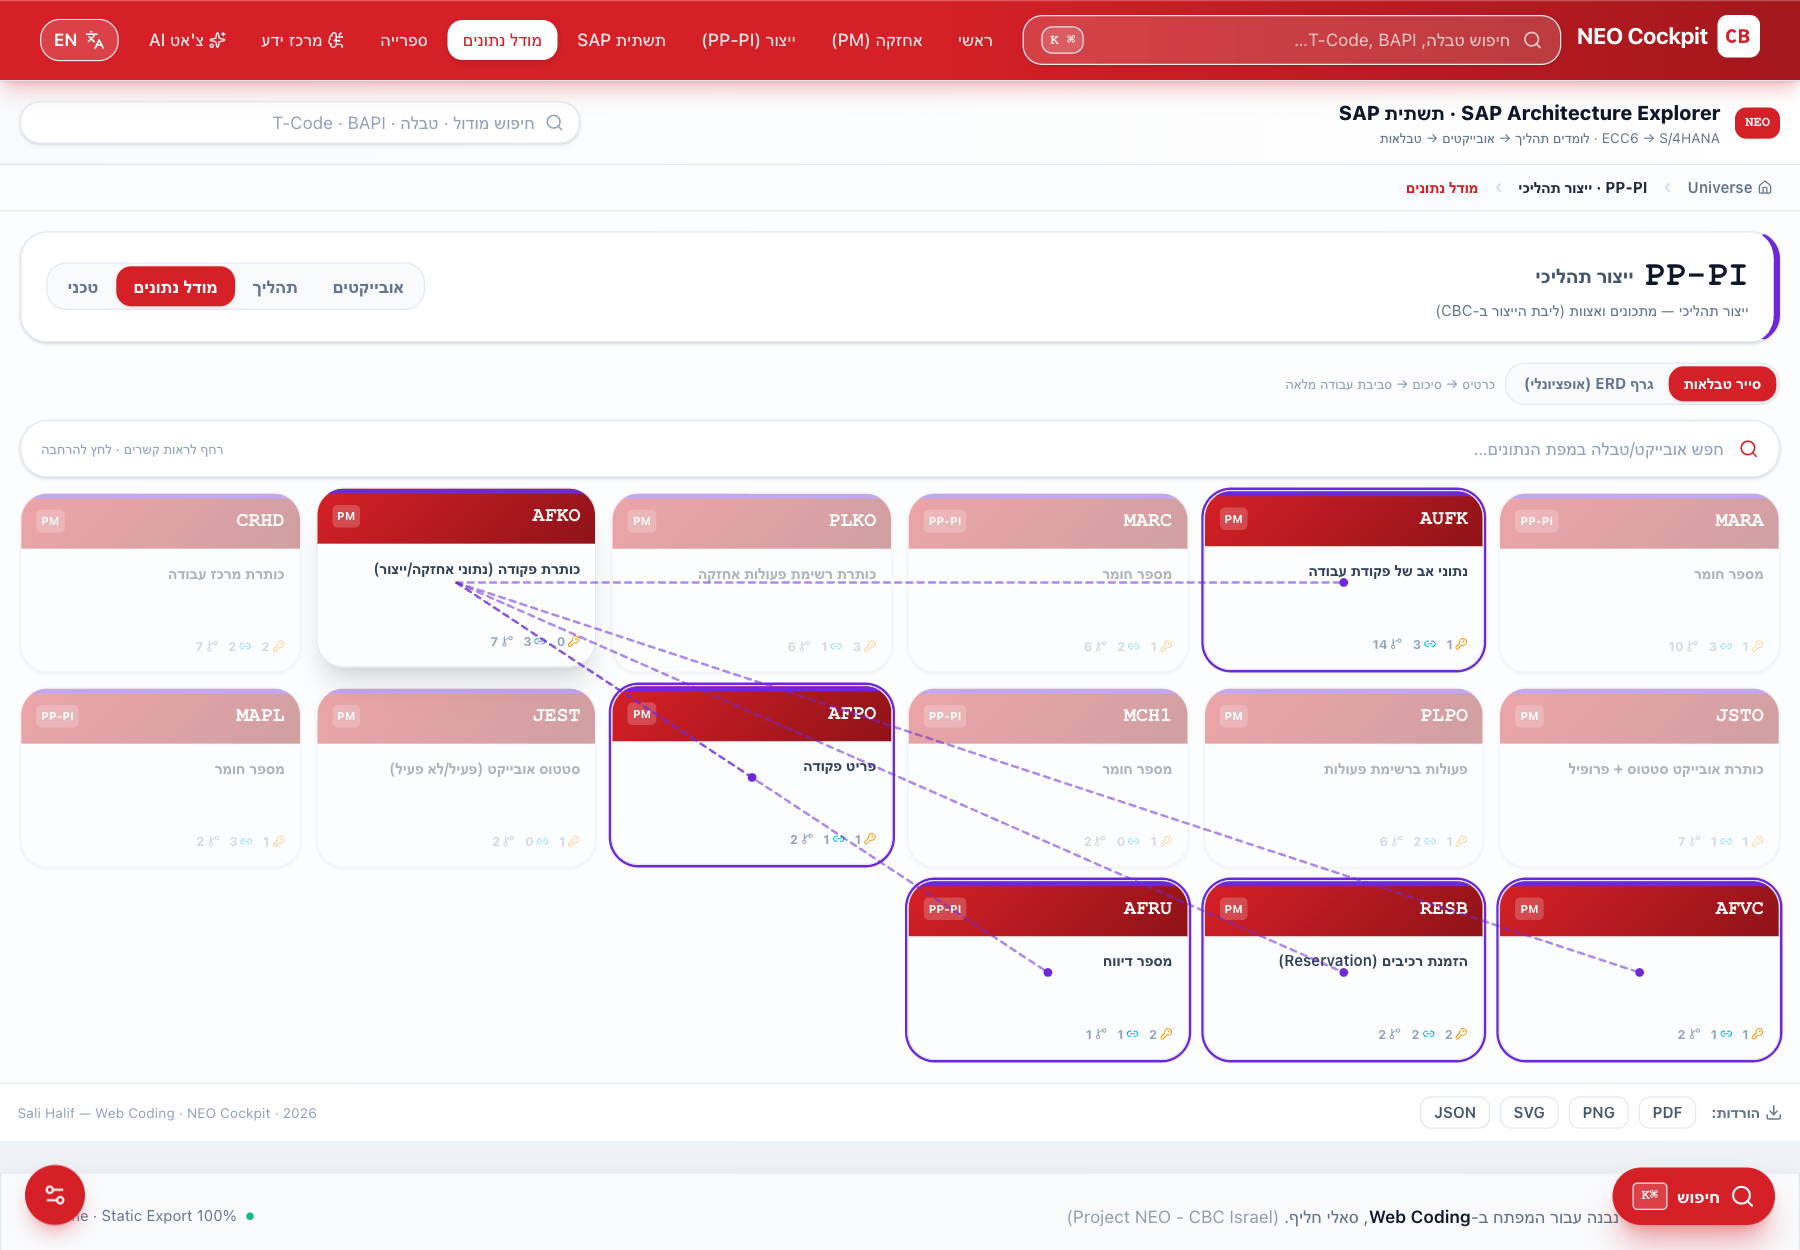
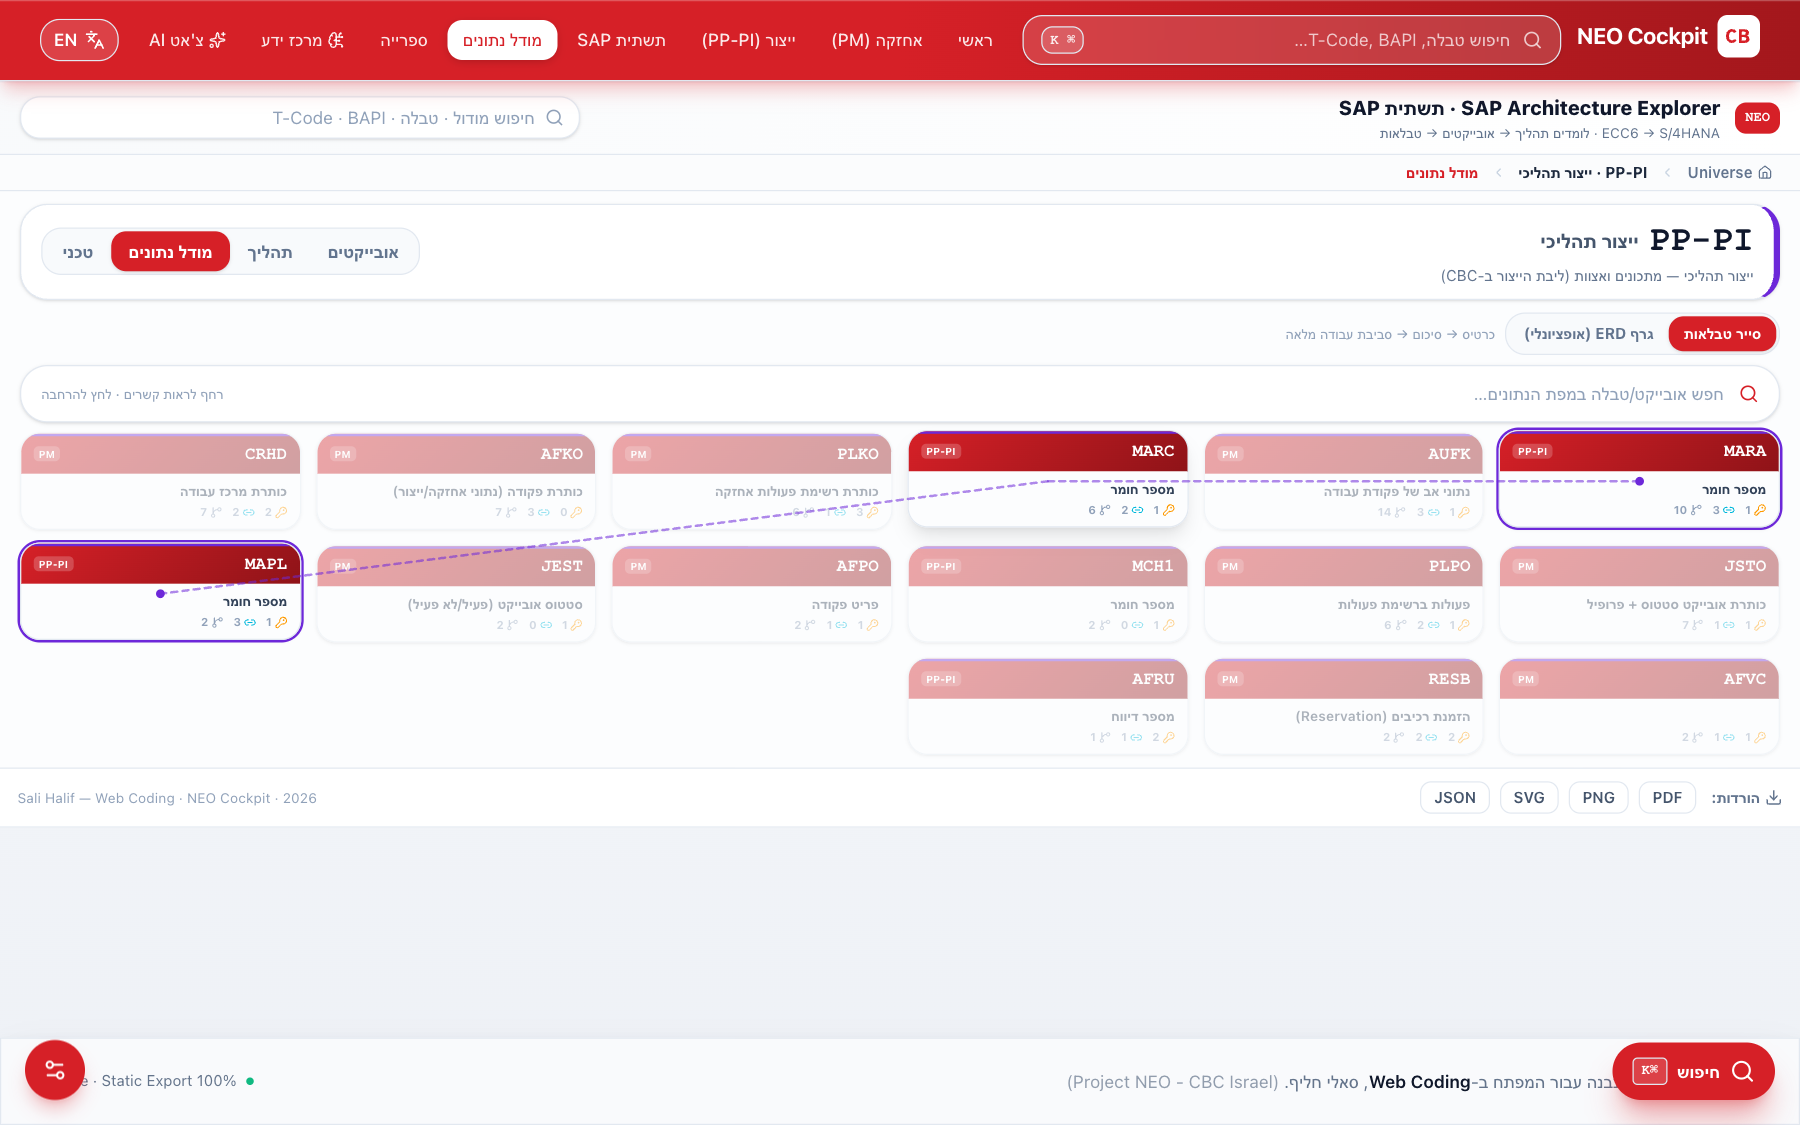
refine(data-model): compact Object Explorer — shorter cards + tighter chrome
- card height 144px -> 78px (-46%), Objects-page proportions, single-line title
- compress top chrome (top bar, breadcrumb, module header, gaps) → first card
  row visible immediately
- L2 = compact inline summary strip (PK/FK/fields/relationships + S/4 + CTA on
  one tight panel), not a full-page accordion
- relationship connector lines kept as core hover feature
Build clean, 0 console errors, 0 external.

diff --git a/app/sap-infrastructure/page.tsx b/app/sap-infrastructure/page.tsx
@@ -59,7 +59,7 @@ export default function Page() {
     <div dir="rtl" className="relative mx-[calc(50%-50vw)] -my-8 w-screen max-w-[100vw] overflow-hidden border-y border-slate-200 bg-white text-slate-900">
       <style>{ANIM}</style>
       {/* top bar */}
-      <div className="flex flex-wrap items-center justify-between gap-3 border-b border-slate-200 bg-gradient-to-l from-white to-slate-50 px-4 py-3">
+      <div className="flex flex-wrap items-center justify-between gap-3 border-b border-slate-200 bg-gradient-to-l from-white to-slate-50 px-4 py-2">
         <div className="flex items-center gap-3">
           <span className="rounded-md bg-[#d62027] px-2 py-1 font-mono text-[11px] font-bold text-white">NEO</span>
           <div><div className="text-base font-extrabold text-slate-900">SAP Architecture Explorer · תשתית SAP</div><div className="text-[11px] text-slate-500">ECC6 → S/4HANA · לומדים תהליך → אובייקטים → טבלאות</div></div>
@@ -80,13 +80,13 @@ export default function Page() {
         </div>
       </div>
       {/* breadcrumb */}
-      <div className="flex items-center gap-1 border-b border-slate-200 bg-slate-50/60 px-4 py-2 text-xs">
+      <div className="flex items-center gap-1 border-b border-slate-200 bg-slate-50/60 px-4 py-1 text-xs">
         <button onClick={() => setNav({ level: "universe" })} className="flex items-center gap-1 rounded px-1.5 py-0.5 font-semibold text-slate-500 hover:bg-slate-100"><Home className="size-3" /> Universe</button>
         {nav.module && <><ChevronLeft className="size-3 text-slate-300" /><span className="rounded px-1.5 py-0.5 font-bold text-slate-800">{nav.module} · {MOD_NAME_HE[nav.module]}</span></>}
         {nav.module && nav.tab && <><ChevronLeft className="size-3 text-slate-300" /><span className="rounded px-1.5 py-0.5 font-semibold text-[#d62027]">{(TABS.find((x) => x[0] === nav.tab) || ["", nav.tab])[1]}</span></>}
       </div>
 
-      <div className="bg-slate-50/40 p-4">
+      <div className="bg-slate-50/40 px-4 py-2.5">
         {nav.level === "universe" && <Universe data={data} color={color} onModule={openModule} />}
         {nav.level === "module" && nav.module && <Workspace data={data} color={color} code={nav.module} tab={nav.tab || "erd"} focus={nav.focus} byName={byName}
           setTab={(t) => setNav({ level: "module", module: nav.module, tab: t })} openErd={(focus) => setNav({ level: "module", module: nav.module, tab: "erd", focus })}
@@ -163,8 +163,8 @@ function Workspace({ data, color, code, tab, focus, byName, setTab, openErd, onT
   const [erdMode, setErdMode] = useState<"cards" | "graph">("cards");
   useEffect(() => { setErdMode("cards"); }, [code]);
   return (
-    <div className="space-y-4" style={{ animation: "fadeUp .35s ease both" }}>
-      <div className="flex flex-wrap items-center justify-between gap-3 rounded-2xl border border-slate-200 bg-white px-5 py-4 shadow-sm" style={{ borderInlineStartColor: c, borderInlineStartWidth: 5 }}>
+    <div className="space-y-2.5" style={{ animation: "fadeUp .35s ease both" }}>
+      <div className="flex flex-wrap items-center justify-between gap-3 rounded-2xl border border-slate-200 bg-white px-4 py-2.5 shadow-sm" style={{ borderInlineStartColor: c, borderInlineStartWidth: 5 }}>
         <div><div className="flex items-center gap-2"><span className="font-mono text-2xl font-extrabold text-slate-900">{code}</span><span className="font-semibold text-slate-600">{MOD_NAME_HE[code]}</span></div><p className="mt-0.5 max-w-3xl text-xs text-slate-500">{purpose}</p></div>
         <div className="flex rounded-xl border border-slate-200 bg-slate-50 p-0.5">
           {TABS.map(([id, label]) => <button key={id} onClick={() => setTab(id)} className={`rounded-lg px-3.5 py-1.5 text-sm font-bold transition ${tab === id ? "bg-[#d62027] text-white shadow-sm" : "text-slate-500 hover:text-slate-900"}`}>{label}</button>)}
@@ -173,7 +173,7 @@ function Workspace({ data, color, code, tab, focus, byName, setTab, openErd, onT
       {tab === "objects" && <ObjectsView data={data} color={color} code={code} byName={byName} onObjectErd={(tables) => openErd(tables)} onTable={onTable} />}
       {tab === "process" && <ProcessFlow color={color} code={code} />}
       {tab === "erd" && (
-        <div className="space-y-3">
+        <div className="space-y-2">
           <div className="flex items-center gap-2">
             <div className="inline-flex rounded-xl border border-slate-200 bg-slate-50 p-0.5">
               <button onClick={() => setErdMode("cards")} className={`rounded-lg px-3 py-1.5 text-xs font-bold transition ${erdMode === "cards" ? "bg-[#d62027] text-white shadow-sm" : "text-slate-500 hover:text-slate-900"}`}>סייר טבלאות</button>
@@ -302,7 +302,7 @@ function DataModelExplorer({ data, color, code, byName, onTable }: { data: Data;
   const related = hover && !open ? relatedOf(hover) : null;
 
   return (
-    <div className="space-y-3">
+    <div className="space-y-2">
       <div className="flex items-center gap-3 rounded-2xl border border-slate-200 bg-white px-4 py-2.5 shadow-sm focus-within:border-[#d62027]/40">
         <Search className="size-4 shrink-0 text-[#d62027]" />
         <input value={q} onChange={(e) => { setQ(e.target.value); setOpen(null); }} placeholder="חפש אובייקט/טבלה במפת הנתונים…" className="h-6 w-full bg-transparent text-sm outline-none placeholder:text-slate-400" />
@@ -332,45 +332,46 @@ function DataModelExplorer({ data, color, code, byName, onTable }: { data: Data;
               <div key={t.name} ref={(el) => { cardRef.current[t.name] = el; }}
                 onMouseEnter={() => !open && setHover(t.name)} onMouseLeave={() => setHover((h) => (h === t.name ? null : h))}
                 className={`relative z-10 transition-all duration-200 ${isOpen ? "col-span-2 sm:col-span-3 lg:col-span-4 xl:col-span-6" : ""} ${dim ? "opacity-40" : "opacity-100"}`}>
-                {/* L1 — square red card */}
+                {/* L1 — compact red card */}
                 <button onClick={() => { setOpen(isOpen ? null : t.name); setHover(null); }}
-                  className={`flex w-full flex-col overflow-hidden rounded-2xl border text-start shadow-sm transition-all ${isOpen ? "border-transparent ring-2" : isRel ? "border-transparent ring-2 -translate-y-0.5" : "border-slate-200 hover:-translate-y-1 hover:shadow-xl"} ${isOpen ? "" : "h-36"}`}
+                  className={`flex w-full flex-col overflow-hidden rounded-xl border text-start shadow-sm transition-all ${isOpen ? "border-transparent ring-2" : isRel ? "border-transparent ring-2 -translate-y-0.5" : "border-slate-200 hover:-translate-y-0.5 hover:shadow-lg"} ${isOpen ? "" : "h-[78px]"}`}
                   style={(isOpen || isRel) ? ({ ["--tw-ring-color"]: c } as React.CSSProperties) : undefined}>
-                  <div className="relative px-3 py-2.5 text-white" style={{ background: "linear-gradient(135deg,#d62027,#8f1318)" }}>
-                    <span className="absolute inset-x-0 top-0 h-1" style={{ background: c }} />
-                    <div className="flex items-center justify-between gap-1">
-                      <span className="font-mono text-base font-extrabold" dir="ltr"><Highlight text={t.name} query={q} /></span>
-                      <span className="rounded bg-white/20 px-1 py-0.5 text-[9px] font-bold">{t.mod}</span>
-                    </div>
+                  <div className="relative flex items-center justify-between gap-1 px-2.5 py-1.5 text-white" style={{ background: "linear-gradient(135deg,#d62027,#8f1318)" }}>
+                    <span className="absolute inset-x-0 top-0 h-0.5" style={{ background: c }} />
+                    <span className="font-mono text-sm font-extrabold" dir="ltr"><Highlight text={t.name} query={q} /></span>
+                    <span className="rounded bg-white/20 px-1 text-[8px] font-bold">{t.mod}</span>
                   </div>
-                  {!isOpen && (
-                    <div className="flex flex-1 flex-col justify-between p-3">
-                      <p className="line-clamp-2 text-xs font-semibold leading-snug text-slate-700"><Highlight text={t.he || t.en} query={q} /></p>
-                      <div className="flex items-center gap-2 text-[10px] font-bold text-slate-400">
+                  {!isOpen ? (
+                    <div className="flex flex-1 flex-col justify-between px-2.5 py-1.5">
+                      <p className="line-clamp-1 text-[11px] font-semibold text-slate-700"><Highlight text={t.he || t.en} query={q} /></p>
+                      <div className="flex items-center gap-2 text-[9px] font-bold text-slate-400">
                         <span className="flex items-center gap-0.5"><KeyRound className="size-2.5 text-amber-500" />{pk.length}</span>
                         <span className="flex items-center gap-0.5"><Link2 className="size-2.5 text-cyan-500" />{fk.length}</span>
                         <span className="flex items-center gap-0.5"><GitBranch className="size-2.5" />{rels.length}</span>
                       </div>
                     </div>
+                  ) : (
+                    <div className="px-2.5 py-1 text-[11px] font-semibold text-slate-600"><Highlight text={t.he || t.en} query={q} /></div>
                   )}
-                  {isOpen && <div className="px-3 pb-1 pt-2 text-sm font-semibold text-slate-700"><Highlight text={t.he || t.en} query={q} /></div>}
                 </button>
 
-                {/* L2 — inline expand under the card */}
+                {/* L2 — compact inline summary */}
                 {isOpen && (
-                  <div className="mt-2 space-y-3 rounded-2xl border border-slate-200 bg-white p-4 shadow-xl" style={{ animation: "fadeUp .3s ease both" }}>
-                    <div className="grid gap-3 sm:grid-cols-2 lg:grid-cols-4">
-                      <Field2 label="מפתח ראשי (PK)" tone="#d97706">{pk.length ? pk.map((f) => <Chip2 key={f[0]} q={q}>{f[0]}</Chip2>) : <Dash />}</Field2>
-                      <Field2 label="מפתח זר (FK)" tone="#0891b2">{fk.length ? fk.map((f) => <Chip2 key={f[0]} q={q}>{f[0]}</Chip2>) : <Dash />}</Field2>
-                      <Field2 label="שדות עיקריים" tone="#475569">{t.fields.slice(0, 8).map((f) => <Chip2 key={f[0]} q={q}>{f[0]}</Chip2>)}</Field2>
-                      <Field2 label="קשרים" tone={c}>{rels.length ? rels.slice(0, 8).map((r) => (
-                        <button key={r.role + r.table} onClick={() => byName[r.table] && onTable(r.table)} className="tech rounded-md border border-slate-200 bg-slate-50 px-2 py-0.5 text-[11px] font-bold text-slate-600 transition hover:text-[#d62027]" dir="ltr">{r.role === "parent" ? "↓" : "↑"} <Highlight text={r.table} query={q} /> <span className="text-slate-400">{r.card}</span></button>
+                  <div className="mt-1.5 space-y-2 rounded-xl border border-slate-200 bg-white p-2.5 shadow-lg" style={{ animation: "fadeUp .25s ease both" }}>
+                    <div className="grid gap-x-3 gap-y-1.5 sm:grid-cols-2 lg:grid-cols-4">
+                      <Field2 label="PK" tone="#d97706">{pk.length ? pk.map((f) => <Chip2 key={f[0]} q={q}>{f[0]}</Chip2>) : <Dash />}</Field2>
+                      <Field2 label="FK" tone="#0891b2">{fk.length ? fk.map((f) => <Chip2 key={f[0]} q={q}>{f[0]}</Chip2>) : <Dash />}</Field2>
+                      <Field2 label="שדות" tone="#475569">{t.fields.slice(0, 6).map((f) => <Chip2 key={f[0]} q={q}>{f[0]}</Chip2>)}</Field2>
+                      <Field2 label="קשרים" tone={c}>{rels.length ? rels.slice(0, 6).map((r) => (
+                        <button key={r.role + r.table} onClick={() => byName[r.table] && onTable(r.table)} className="tech rounded border border-slate-200 bg-slate-50 px-1.5 text-[10px] font-bold text-slate-600 transition hover:text-[#d62027]" dir="ltr">{r.role === "parent" ? "↓" : "↑"}<Highlight text={r.table} query={q} /></button>
                       )) : <Dash />}</Field2>
                     </div>
-                    {t.s4 && <p className="rounded-lg bg-amber-50 px-2.5 py-1.5 text-[12px] font-medium text-amber-900"><span className="font-bold">ECC → S/4: </span><Highlight text={t.s4} query={q} />{t.s4alt ? ` · חלופה: ${t.s4alt}` : ""}</p>}
-                    <button onClick={() => onTable(t.name)} className="lift inline-flex items-center gap-1.5 rounded-xl px-3 py-2 text-xs font-bold text-white shadow-lg" style={{ background: c, boxShadow: `0 8px 18px ${c}55` }}>
-                      <Workflow className="size-3.5" />סביבת עבודה מלאה<ArrowLeft className="size-3.5" />
-                    </button>
+                    <div className="flex items-center justify-between gap-2">
+                      {t.s4 ? <p className="line-clamp-1 flex-1 rounded bg-amber-50 px-2 py-1 text-[10px] font-medium text-amber-900"><span className="font-bold">S/4: </span><Highlight text={t.s4} query={q} /></p> : <span />}
+                      <button onClick={() => onTable(t.name)} className="tap inline-flex shrink-0 items-center gap-1 rounded-lg px-2.5 py-1 text-[11px] font-bold text-white shadow" style={{ background: c }}>
+                        <Workflow className="size-3" />סביבת עבודה<ArrowLeft className="size-3" />
+                      </button>
+                    </div>
                   </div>
                 )}
               </div>
